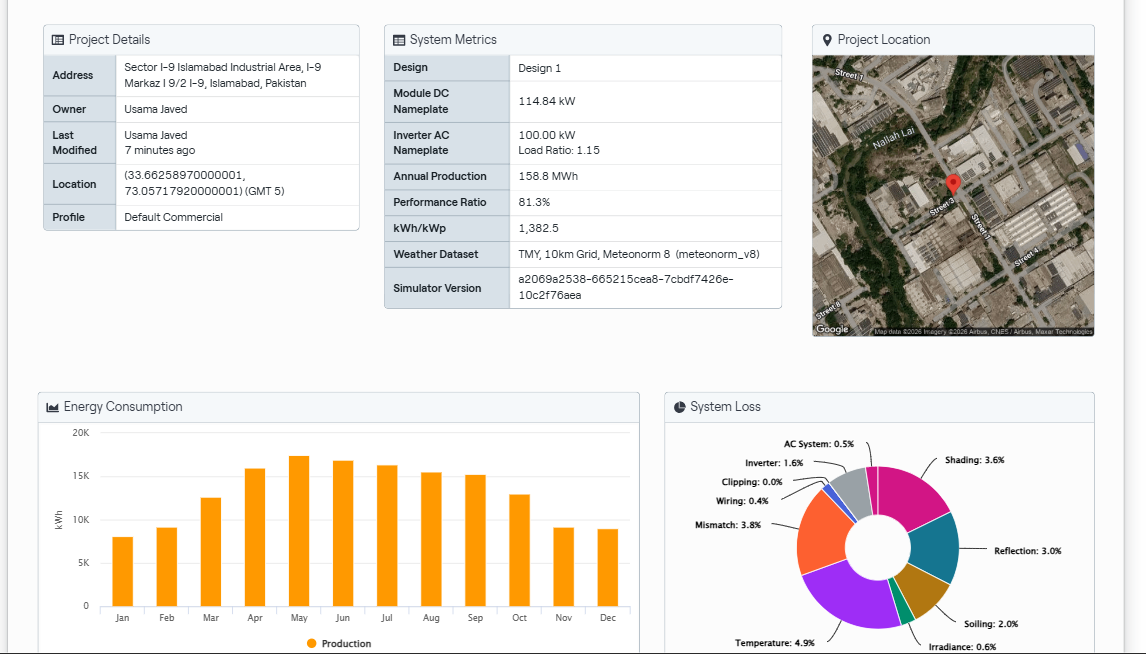
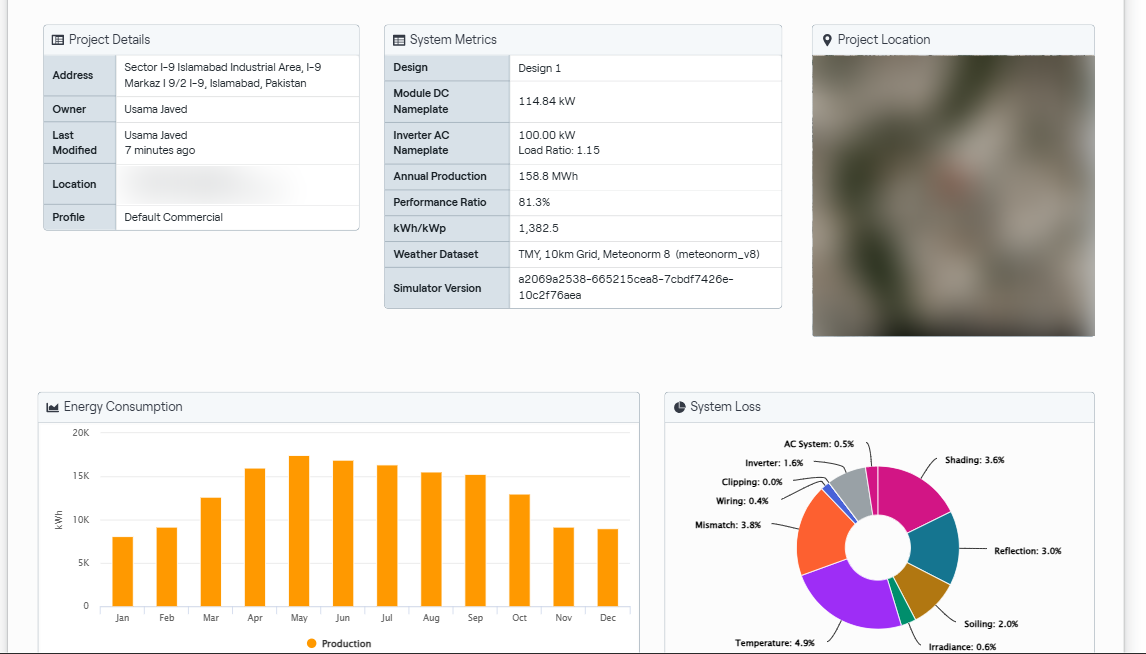
Hygiene: blur coordinates in the HelioScope report, strip local path from the Excel download, move setup notes out of public, HSTS includeSubDomains and COOP; role targets tidy

Changed region(s): [[0.7024, 0.0612, 0.9773, 0.5199], [0.1222, 0.2446, 0.2443, 0.3058]]

diff --git a/src/lib/roles.ts b/src/lib/roles.ts
@@ -103,7 +103,7 @@ export const roles: Role[] = [
     record:
       "Up to 40 crew members across five concurrent sites; site escalation point for mounting, DC and AC works.",
     tools: ["MS Project", "AutoCAD", "Advanced Excel"],
-    targets: ["Site Supervisor", "Installation Supervisor"],
+    targets: ["Installation Supervisor", "Assistant Site Manager"],
     pitch:
       "As a project manager I led three engineers and installation crews of up to 40 people across five concurrent solar sites, and was the escalation point when mounting, DC string routing and AC connection works clashed.",
     asks: [
